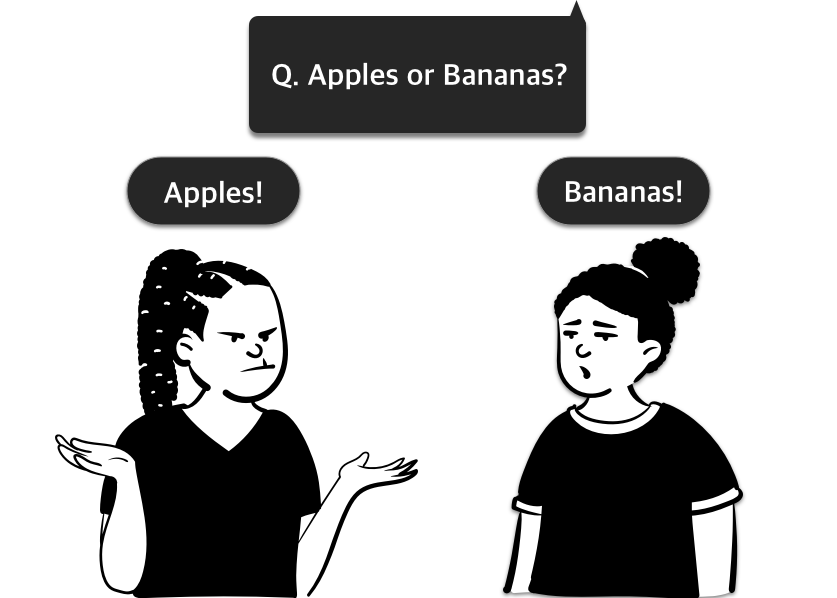
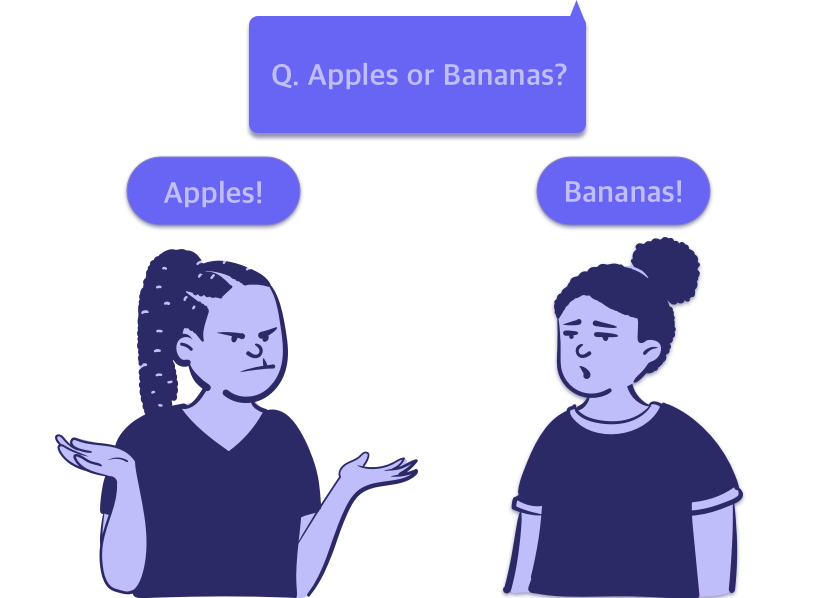
change all artwork color

diff --git a/client/src/components/Post/index.js b/client/src/components/Post/index.js
@@ -110,7 +110,7 @@ export default function Post(props) {
       {/* Question */}
       <div className="flex flex-col bg-white p-8 w-3/6 mx-auto rounded-lg shadow-xl border">
         <div className="flex justify-center items-center">
-          <a className="px-2 py-1 bg-black text-sm text-green-100 rounded" href="#">Question {listQuestions.id}</a>
+          <a className="px-2 py-1 bg-indigo-700 text-sm text-green-100 rounded" href="#">Question {listQuestions.id}</a>
         </div>
         <div className="mt-4">
           <a className="text-lg text-gray font-medium" href="#"> {listQuestions.title} </a>
@@ -170,7 +170,7 @@ export default function Post(props) {
 
           <div className="flex justify-end p-4 mx-3">
             <div>
-              <button onClick={postComment} className="bg-black hover:bg-black text-white font-bold mx-2 py-2 px-4 rounded-full">Submit</button>
+              <button onClick={postComment} className="bg-indigo-700 hover:bg-indigo-700 text-white font-bold mx-2 py-2 px-4 rounded-full">Submit</button>
             </div>
           </div>
         </div>

diff --git a/client/src/components/Post/QuestionList.js b/client/src/components/Post/QuestionList.js
@@ -32,7 +32,7 @@ export default function QuestionList(props) {
               {/* Question */}
               <div className="flex flex-col bg-white p-8 w-3/6 mx-auto rounded-lg shadow-xl border">
                 <div className="flex justify-center items-center">
-                  <a className="px-2 py-1 bg-neutral-800 text-sm text-green-100 rounded" href="#">Question {question.id}</a>
+                  <a className="px-2 py-1 bg-indigo-700 text-sm text-green-100 rounded" href="#">Question {question.id}</a>
                 </div>
                 <div className="mt-4">
                   <a className="text-lg text-gray-700 font-medium" href="#">{question.title}</a>

diff --git a/client/src/components/Main.js b/client/src/components/Main.js
@@ -20,7 +20,7 @@ export default function Comment(props) {
           <div className="justify-center align-middle mt-20">
             <p class="font-semibold">You have two things in mind, and can't decide on which one. </p>
               <Link to="/users" className="block mt-4 lg:inline-block lg:mt-0 text-indigo-200 hover:text-white mr-4">
-                <button className="bg-neutral-800 hover:bg-black text-white font-bold mt-4 py-2 px-4 rounded-full">
+                <button className="bg-indigo-600 hover:bg-indigo-800 text-white font-bold mt-4 py-2 px-4 rounded-full">
                   Create a Question
                 </button>
               </Link>

diff --git a/client/src/components/Post/Vote.scss b/client/src/components/Post/Vote.scss
@@ -4,7 +4,7 @@
 /* Container for skill bars */
 .bar-container {
   width: 100%; /* Full width */
-  background-color: #828282; /* Grey background */
+  background-color: #00bcd4; /* Grey background */
 }
 
 .votes {
@@ -20,4 +20,4 @@
 // box-shadow:  14px 14px 28px #828282,
 //              -14px -14px 28px #ffffff;
 // }
-.bar {width: 50%; background-color: #262626;} /* Green */
+.bar {width: 50%; background-color: #3f51b5;} /* Green */

diff --git a/client/src/components/Navbar/index.js b/client/src/components/Navbar/index.js
@@ -24,7 +24,7 @@ export default function Navbar(props) {
   // })
 
   return (
-    <nav className="flex items-center justify-between flex-wrap bg-neutral-800 p-6">
+    <nav className="flex items-center justify-between flex-wrap bg-indigo-500 p-6">
 
       {/* Logo */}
       <div className="flex items-center flex-shrink-0 text-white mr-6">
